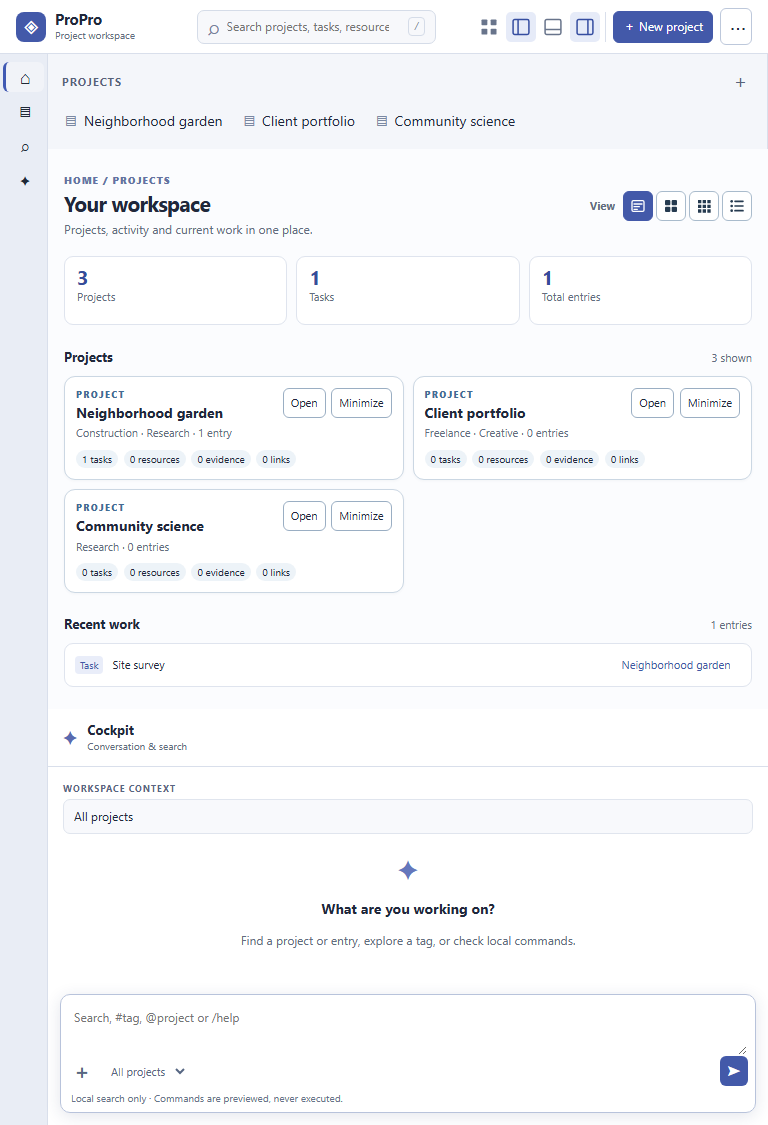
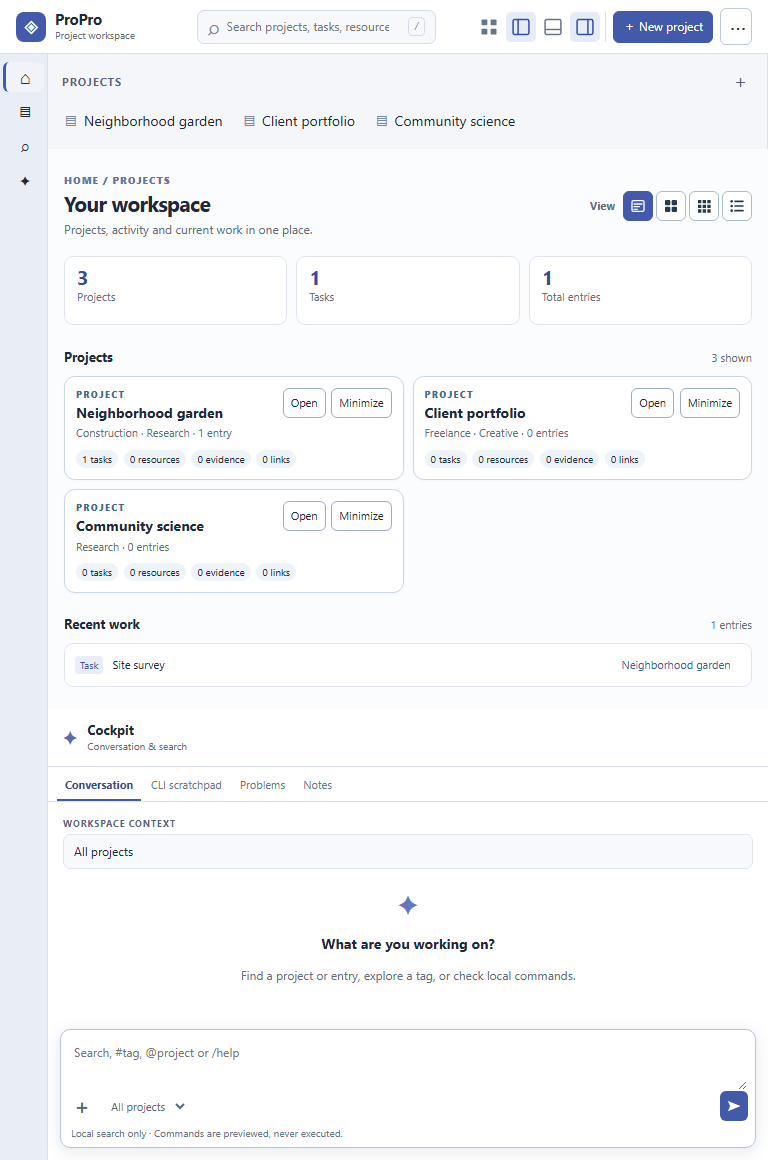
feat: add tabbed utility pane and side swap
Change-Level: DRIVE
Dev-Docs: updated
Validation: 2 model and 8 browser PASS; npm ci PASS; axe and responsive checks PASS

diff --git a/styles.css b/styles.css
@@ -168,3 +168,24 @@ body { background:#f5f6fa; }
 @media(max-width:1050px) { #workbench { min-height:0; } #context.cockpit-workbench__context { min-height:330px; } .context-welcome { margin-top:15px; } }
 @media(max-width:700px) { .site-header { grid-template-columns:1fr auto; gap:7px; padding:8px 12px; } .global-search { grid-column:1/-1; grid-row:2; width:100%; } .header-actions { grid-column:2; grid-row:1; gap:3px; } .header-actions #new-project span { display:none; } .header-actions > button { width:32px; } #content.cockpit-workbench__content { padding:15px; } .content-head { align-items:start; } .overview-stats { gap:5px; } .overview-stats div { padding:8px; } .overview-stats strong { font-size:17px; } }
 @media(max-width:420px) { .content-head { display:block; } .layout-picker { margin-top:11px; } .cards { grid-template-columns:1fr; } .project-card { padding:10px; } }
+.utility-tabs { display:flex; flex:none; gap:2px; padding:4px 9px 0; border-bottom:1px solid var(--border); overflow-x:auto; }
+.utility-tabs button { flex:0 0 auto; min-height:31px; padding:5px 8px; border:0; border-bottom:2px solid transparent; border-radius:0; background:transparent; color:#68748a; font-size:11px; white-space:nowrap; }
+.utility-tabs button[aria-selected="true"] { color:#354c9a; border-bottom-color:#4359a9; font-weight:700; }
+.utility-view[hidden] { display:none!important; }
+.conversation-view { display:flex; flex:1; flex-direction:column; min-height:0; }
+.conversation-view .context-content { flex:1; }
+.utility-extra { flex:1; min-height:0; padding:16px; overflow:auto; font-size:12px; color:#566278; }
+.utility-extra h3 { margin:0 0 6px; color:var(--ink); font-size:14px; }
+.utility-extra p { line-height:1.5; }
+.utility-extra label { display:block; margin:16px 0 6px; font-size:11px; font-weight:600; }
+.utility-extra input,.utility-extra textarea { width:100%; padding:8px; border:1px solid #c9d2e1; border-radius:6px; background:#fff; color:var(--ink); }
+.utility-extra textarea { resize:vertical; line-height:1.5; }
+.scratch-row { display:flex; gap:6px; }
+.scratch-row button { padding:5px 9px; border:1px solid #c9d2e1; border-radius:6px; background:#eef1f8; }
+.utility-extra output { display:block; margin-top:12px; padding:10px; border:1px solid #e0e5ee; border-radius:6px; background:#f8f9fc; min-height:36px; }
+@media(min-width:1051px) {
+  #workbench.context-bottom #context.cockpit-workbench__context { display:flex; flex-direction:column; }
+  #workbench.context-bottom .conversation-view { display:grid; grid-template-columns:minmax(0,1fr) minmax(260px,400px); grid-template-rows:minmax(0,1fr); }
+  #workbench.context-bottom .conversation-view .context-content { grid-column:1; grid-row:1; }
+  #workbench.context-bottom .conversation-view .composer { grid-column:2; grid-row:1; }
+}

diff --git a/docs/PROP-CKP-001B-IMPLEMENTATION.md b/docs/PROP-CKP-001B-IMPLEMENTATION.md
@@ -66,3 +66,11 @@ The composer now offers keyboard-operable `#` capability tags, `@` project refer
 ### Panel controls in the top bar — 2026-11-05
 
 Owner visual feedback moved placement and visibility out of the conversation pane and into a compact top-bar icon group modeled on familiar editor layout controls. The group toggles the primary sidebar, bottom conversation panel and right conversation panel; a neighboring layout control restores the default arrangement. Each icon has an accessible name, tooltip, keyboard focus and pressed state. Clicking an active bottom/right icon hides that panel; clicking it again restores that placement. The pane header now contains only its identity. Updated 390px, 1280px and bottom-docked captures verify the layout, while the browser suite checks the controls and narrow-width fit.
+
+### Tabbed utility pane and side swap — 2026-11-05
+
+The conversation pane now contains four keyboard-accessible views: Conversation, CLI scratchpad, Problems and Notes. The CLI scratchpad previews `/help` and `/status` locally and cannot execute commands. Problems reports local project-data loading state; Notes save separately from version 1 project records in browser storage. Tab choice also persists separately. The top Layout menu swaps the left and right side panes; the same context pane can still occupy the bottom. Top bar icons toggle whichever panel occupies their region. The private Cockpit GUI `0.1.2` package owns layout, resize and persistence while ProPro owns the view content. Running captures include `docs/screenshots/propro-docked-1280.png` and `docs/screenshots/propro-swapped-1280.png`; browser tests cover tab selection, reload, side swap, resize labels, local-only command behavior, data preservation and automated accessibility checks.
+
+This slice does not connect a system terminal, email, calendar or external widget. Those need explicit provider, permission and persistence contracts before pinning. Arbitrary placement of every view into every region, drag reorder and detached windows remain future work.
+
[1 lines of base64/hex data omitted]
